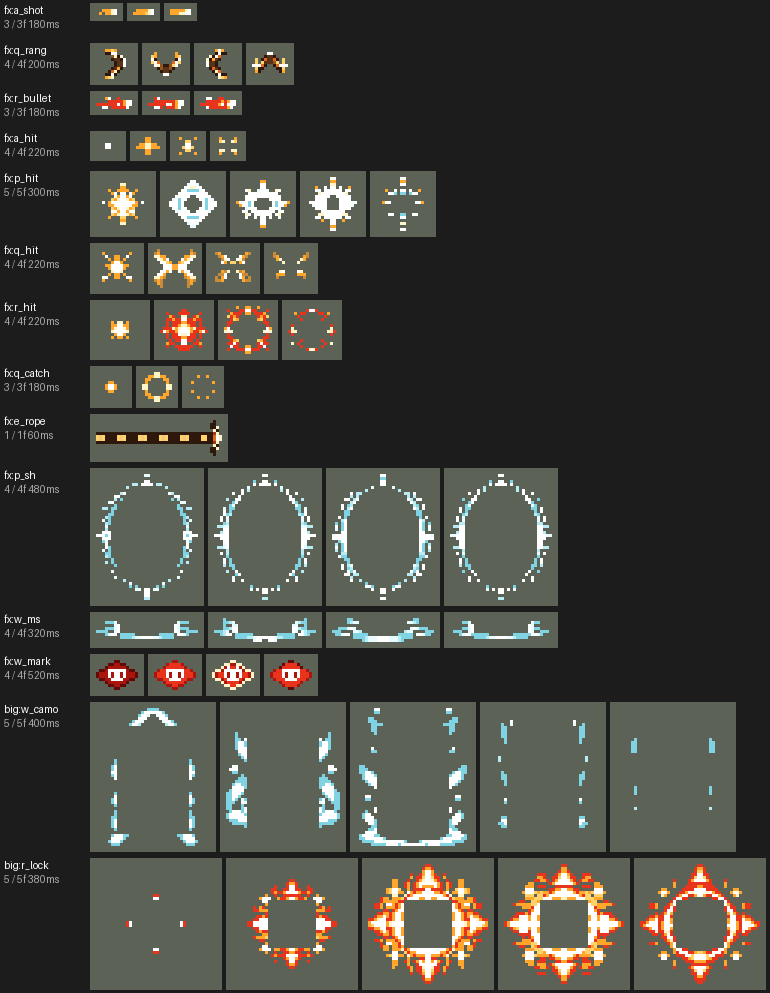
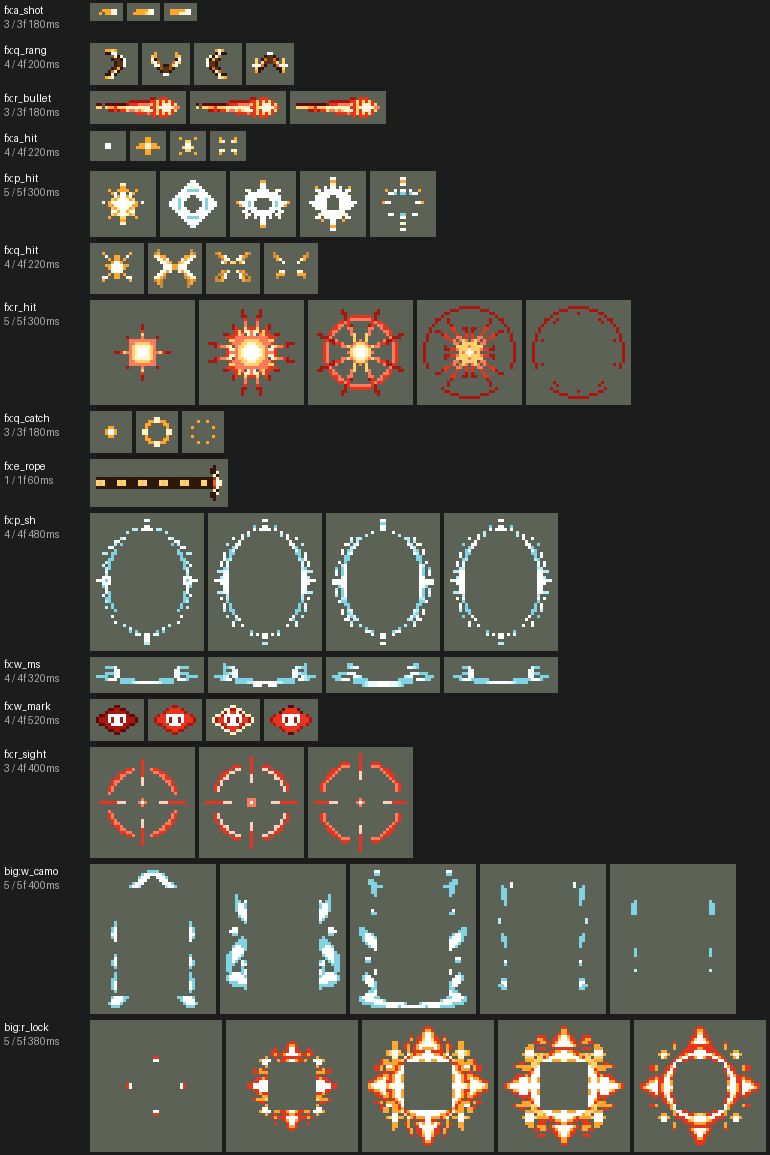
Akshan previews: the R lock on Darius in the showcase while he aims, the new R pictures in the effects sheet

diff --git a/tools/art/preview_akshan.py b/tools/art/preview_akshan.py
@@ -9,7 +9,7 @@
                               second): the double shot (two bullets, two hits); Q - the boomerang out through Darius and
                               back, a hit each way, the third hit's Sentinel burst and his shield, the catch; E - the hook
                               shot up, the swing with a shot at Darius every e_every ticks, the roll back; W - the
-                              camouflage and the speed streaks as he steps back; R - the lock sigil, the channel, five
+                              camouflage and the speed streaks as he steps back; R - the lock sigil, the lock on Darius through the channel, five
                               heavy rounds and Darius falls; 3x
 """
 import argparse
@@ -259,11 +259,12 @@ def showcase(out, z=3):
     me.moves.append((start, start + 700, x, x - 30))
     c.a("run", 700, loop=True)
     c.wait(300)
-    # R Comeuppance: the lock sigil, the channel, five heavy rounds, Darius falls
+    # R Comeuppance: the lock sigil, the lock on Darius through the channel, five heavy rounds, Darius falls
     start = c.t
     c.at_spot("r_lock", start, *me.pos(start))
     c.a("ult", tick(8))
     c.a("ult_ch", tick(P["r_ch"] - 8), loop=True)
+    c.on("r_sight", start, until=c.t)                   # the lock on Darius while he aims, off as he fires
     for k in range(P["r_n"]):
         ts = c.t + tick(k * P["r_gap"])
         t1 = c.fly("r_bullet", ts, me.pos(ts)[0] + 28, dx_, me.pos(ts)[1] + GUN_Y + 2, P["r_speed"], gy + GUN_Y + 2)
